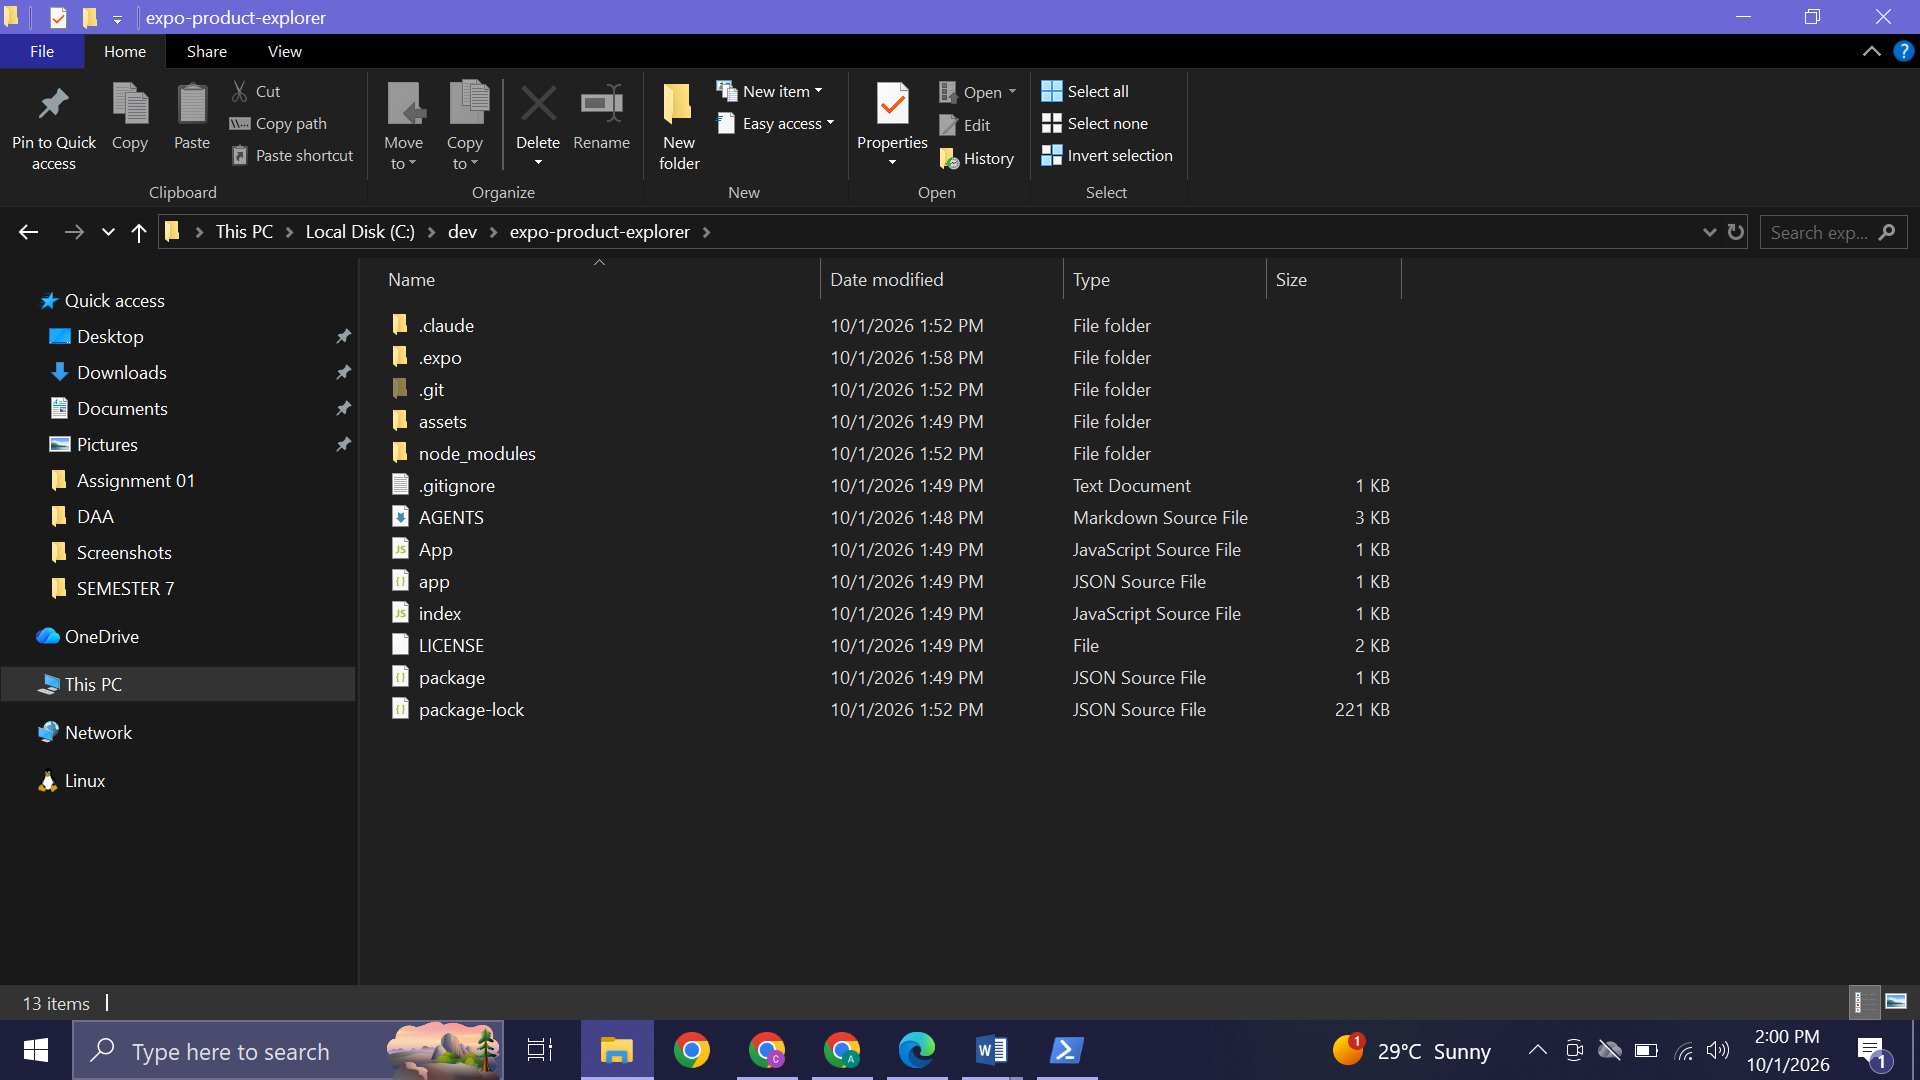
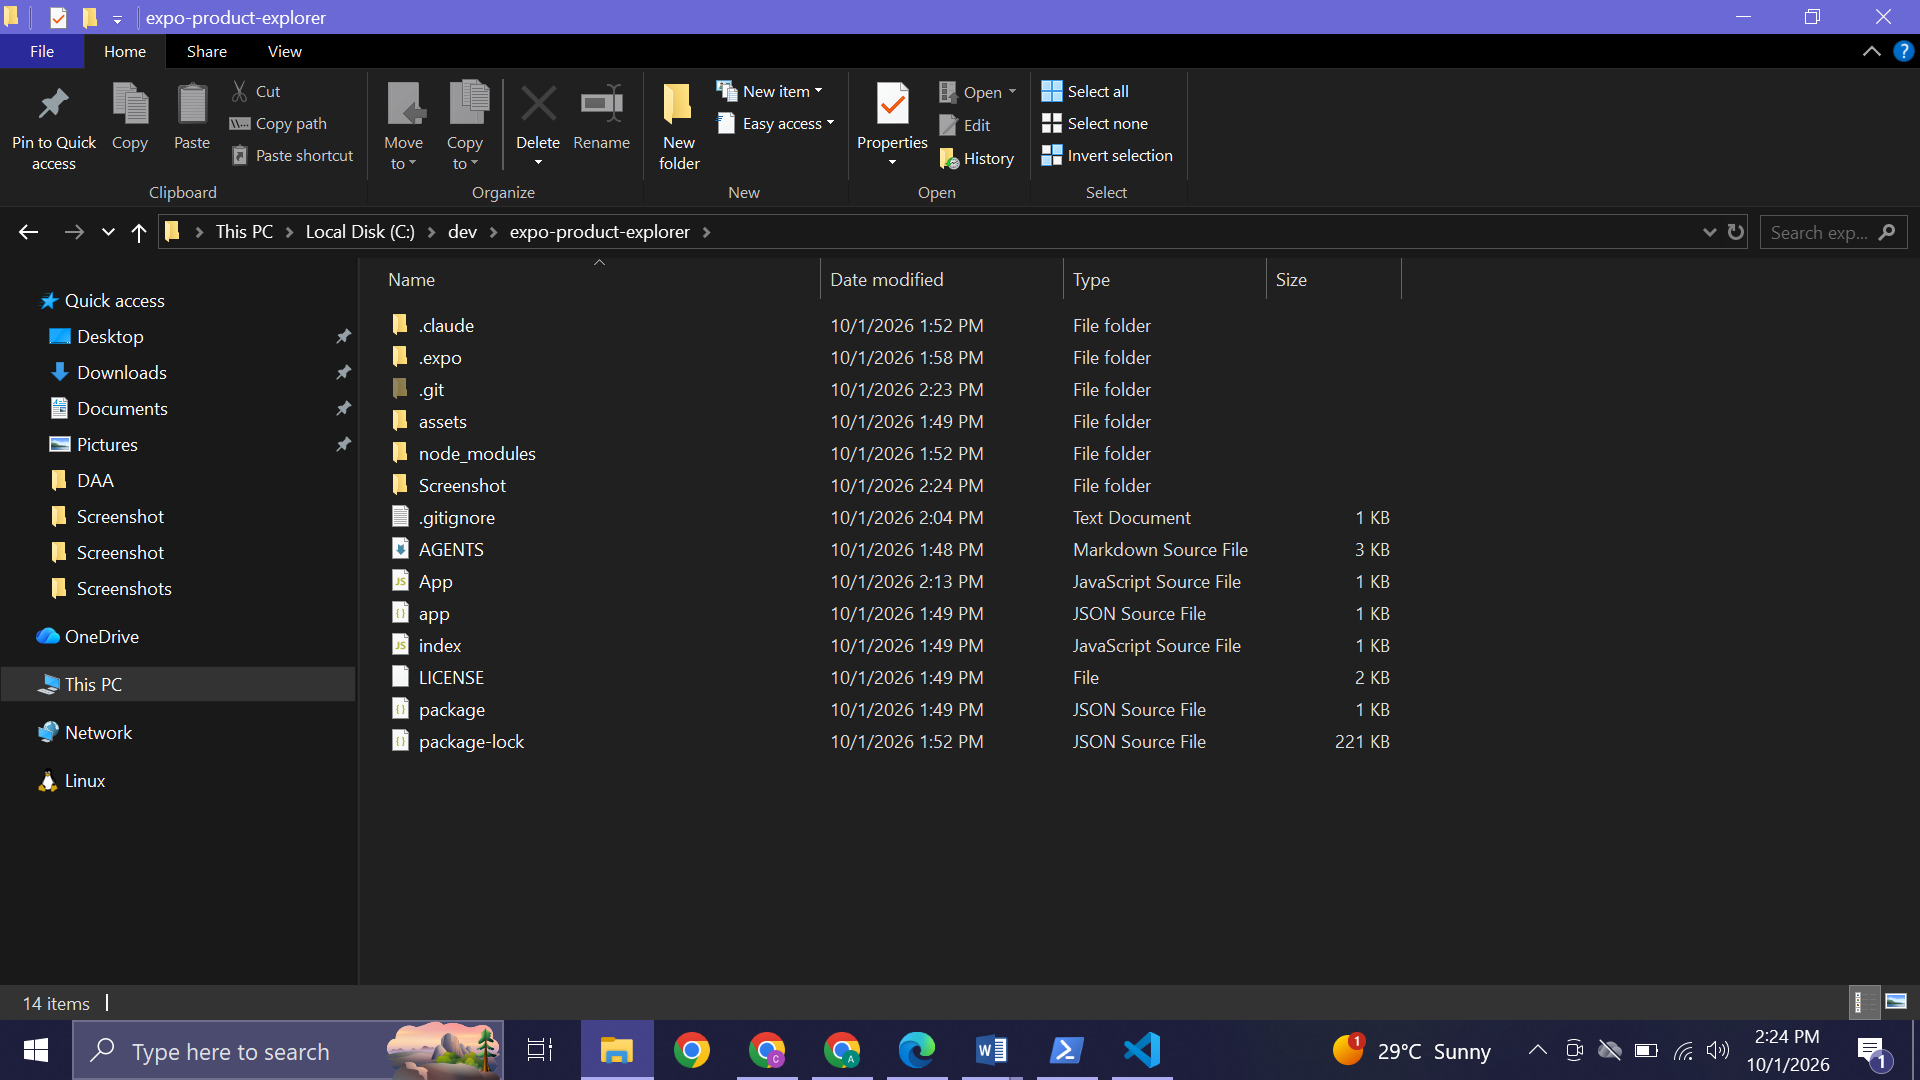
Add products FlatList using Expo MCP guidance

diff --git a/App.js b/App.js
@@ -1,5 +1,14 @@
 import { StatusBar } from 'expo-status-bar';
-import { StyleSheet, Text, View } from 'react-native';
+import { FlatList, StyleSheet, Text, View } from 'react-native';
+
+const products = [
+  { id: '1', name: 'Everyday Backpack', category: 'Accessories', price: '$48' },
+  { id: '2', name: 'Ceramic Travel Mug', category: 'Kitchen', price: '$18' },
+  { id: '3', name: 'Wireless Headphones', category: 'Electronics', price: '$79' },
+  { id: '4', name: 'Cotton Tote Bag', category: 'Accessories', price: '$16' },
+  { id: '5', name: 'Desk Plant', category: 'Home', price: '$22' },
+  { id: '6', name: 'Notebook Set', category: 'Stationery', price: '$12' },
+];
 
 export default function App() {
   return (
@@ -7,6 +16,21 @@ export default function App() {
       <Text style={styles.title}>Product Explorer</Text>
       <Text style={styles.name}>Ayesha Naveed</Text>
       <Text style={styles.roll}>Roll No: 23i-3068</Text>
+      <FlatList
+        style={styles.list}
+        contentContainerStyle={styles.listContent}
+        data={products}
+        keyExtractor={(item) => item.id}
+        renderItem={({ item }) => (
+          <View style={styles.productCard}>
+            <View>
+              <Text style={styles.productName}>{item.name}</Text>
+              <Text style={styles.category}>{item.category}</Text>
+            </View>
+            <Text style={styles.price}>{item.price}</Text>
+          </View>
+        )}
+      />
       <StatusBar style="auto" />
     </View>
   );
@@ -17,7 +41,8 @@ const styles = StyleSheet.create({
     flex: 1,
     backgroundColor: '#f4f1ff',
     alignItems: 'center',
-    justifyContent: 'center',
+    paddingTop: 64,
+    paddingHorizontal: 20,
   },
   title: {
     fontSize: 28,
@@ -33,5 +58,37 @@ const styles = StyleSheet.create({
     fontSize: 18,
     color: '#555',
     marginTop: 6,
+  },
+  list: {
+    width: '100%',
+    marginTop: 24,
+  },
+  listContent: {
+    paddingBottom: 24,
+  },
+  productCard: {
+    flexDirection: 'row',
+    alignItems: 'center',
+    justifyContent: 'space-between',
+    backgroundColor: '#fff',
+    borderRadius: 12,
+    padding: 16,
+    marginBottom: 12,
+  },
+  productName: {
+    fontSize: 16,
+    fontWeight: '600',
+    color: '#30205f',
+  },
+  category: {
+    fontSize: 14,
+    color: '#71669a',
+    marginTop: 4,
+  },
+  price: {
+    fontSize: 16,
+    fontWeight: 'bold',
+    color: '#4b2bbd',
+    marginLeft: 12,
   },
 });
